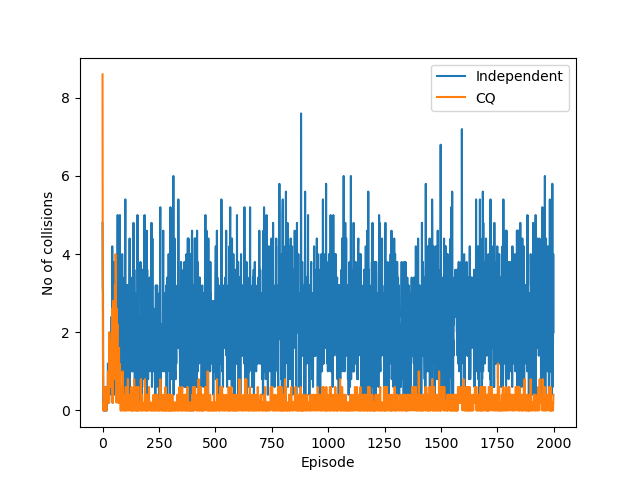
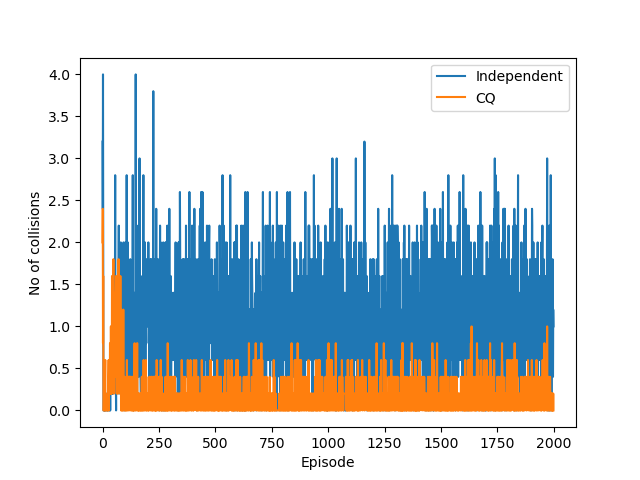
Set different reward for each environment
The tunnel-to-goal environment is much larger. It appears that it
helps to set a much larger reward.

diff --git a/cq/__main__.py b/cq/__main__.py
@@ -10,7 +10,7 @@ def main(args=None):
 
 def run_tunnel_to_goal():
     gridworld = GridWorld.tunnel_to_goal()
-    runner = Runner(2000, 10, gridworld)
+    runner = Runner(2000, 10, gridworld, goal_reward=2000)
     plot = Plot("tunnel")
     agent_creator = AgentCreator((0,0), (0,4))
     independent_results = runner.run(agent_creator.create_independent_agents)
@@ -26,7 +26,7 @@ def run_tunnel_to_goal():
     
 def run_basic_grid():
     gridworld = GridWorld.basic_grid()
-    runner = Runner(2000, 10, gridworld)
+    runner = Runner(2000, 10, gridworld, goal_reward=500)
     plot = Plot("basic")
     agent_creator = AgentCreator((0,2), (2,2))
     plot.collisions_over_time_plot({
@@ -38,8 +38,8 @@ class AgentCreator:
     def create_independent_agents(self):
         learning_rate = lambda time_step: 0.1
         return [
-            IndependentAgent(learning_rate=learning_rate, epsilon=0.1, discount_factor=0.75, state=self.start_1, name="Agent 1"),
-            IndependentAgent(learning_rate=learning_rate, epsilon=0.1, discount_factor=0.75, state=self.start_2, name="Agent 2")
+            IndependentAgent(learning_rate=learning_rate, epsilon=0.1, discount_factor=0.5, state=self.start_1, name="Agent 1"),
+            IndependentAgent(learning_rate=learning_rate, epsilon=0.1, discount_factor=0.5, state=self.start_2, name="Agent 2")
         ]
 
     def create_cq_agents(self):
@@ -47,7 +47,7 @@ class AgentCreator:
             "Agent 1": self.start_1,
             "Agent 2": self.start_2
         }
-        return [ CQLearner(name, initial_state, discount_factor=0.75) for name in initial_state ]
+        return [ CQLearner(name, initial_state, discount_factor=0.5) for name in initial_state ]
 
     def __init__(self, start_1, start_2):
         self.start_1 = start_1

diff --git a/cq/runner.py b/cq/runner.py
@@ -2,10 +2,13 @@ from .experiment_results import ExperimentResults
 
 class Runner:
     
-    def __init__(self, num_episodes, num_trials, environment):
+    def __init__(self, num_episodes, num_trials, environment, goal_reward, collision_reward=-200, wall_reward=-30):
         self.num_episodes = num_episodes
         self.num_trials = num_trials
         self.environment = environment
+        self.goal_reward = goal_reward
+        self.collision_reward = collision_reward
+        self.wall_reward = wall_reward
 
     def run(self, agent_creator):
         """Run the experiment with the given number of trials and episodes"""
@@ -53,11 +56,11 @@ class Runner:
             
     def __calculate_reward(self, wall, collision, goal):
         if collision:
-            return -200
+            return self.collision_reward
         elif wall:
-            return -30
+            return self.wall_reward
         elif goal:
-            return 1000
+            return self.goal_reward
         else:
             return 0
             
